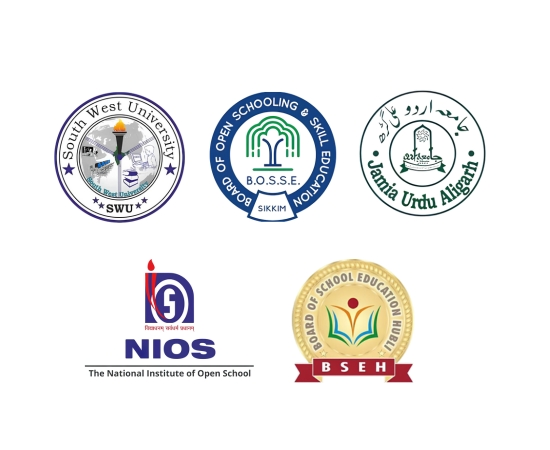
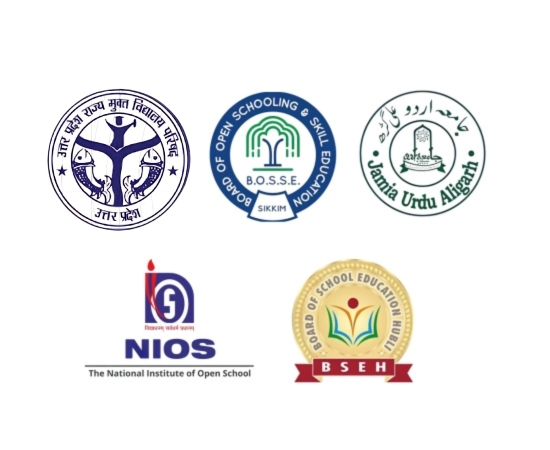
c

diff --git a/university.html b/university.html
@@ -141,7 +141,7 @@
                                     <div class="text-center p-4 pt-0">
                                         <div class="d-inline-block bg-primary text-white fs-5 py-1 px-4 mb-4">The Uttar Pradesh State Open School Board (UPSOSB)</div>
                                         <div class="position-relative mt-auto">
-                                            <img class="imges" src="img/swu.png" alt="">
+                                            <img class="imges" src="img/uttrar.jpg" alt="">
                                         </div>
                                         <br>
                                         <div>
@@ -391,7 +391,7 @@
                     </div>
                     <div class="carousel-item ">
                         <div class="row g-4">
-                            <div class="col-lg-4 col-md-6">
+                            <!-- <div class="col-lg-4 col-md-6">
                                 <div class="courses-item d-flex flex-column bg-white overflow-hidden h-100">
                                     <div class="text-center p-4 pt-0">
                                         <div class="d-inline-block bg-primary text-white fs-5 py-1 px-4 mb-4">Pragyan International University</div>
@@ -405,7 +405,7 @@
                                         </div>
                                     </div>
                                 </div>
-                            </div>
+                            </div> -->
                             <div class="col-lg-4 col-md-6">
                                 <div class="courses-item d-flex flex-column bg-white overflow-hidden h-100">
                                     <div class="text-center p-4 pt-0">

diff --git a/Secondary and Senior Secondary Education.html b/Secondary and Senior Secondary Education.html
@@ -192,7 +192,7 @@
             </div>
             <div class="container" id="swu">
                 <div class="about">
-                    <img src="img/swu.png" alt="UPSOSB Photo" />
+                    <img src="img/uttrar.jpg" alt="UPSOSB Photo" />
                     <div class="about-text">
                         <h1>The Uttar Pradesh State Open School Board (UPSOSB)</h1>
                         <p>The Uttar Pradesh State Open School Board (UPSOSB) is a state-level educational board dedicated to providing open and distance learning opportunities to individuals who cannot attend regular schools due to various constraints. It offers flexible and inclusive education programs for diverse learners, including school dropouts, homemakers, working professionals, and individuals from rural or remote areas.</p>

diff --git a/Regular Education.html b/Regular Education.html
@@ -500,7 +500,7 @@
            
         </div> </div>
         </div>  
-        <div class="container" id="paragyan">
+        <!-- <div class="container" id="paragyan">
             <div class="about">
                 <img src="img/PARAGYAN.jpg" alt="UPSOSB Photo" />
                 <div class="about-text">
@@ -534,7 +534,7 @@
                 </div>
            
         </div> </div>
-        </div>  
+        </div>   -->
         <div class="container" id="himalayan">
             <div class="about">
                 <img src="img/HIMALAYAN.jpg" alt="UPSOSB Photo" />

diff --git a/form.html b/form.html
@@ -301,7 +301,7 @@
                 "Monad University",
                 "William Carey University",
                 "Sikkim International University",
-                "Pragyan International University",
+                // "Pragyan International University",
                 "Himalayan Garhwal University",
                 "Glocal University"
             ],
